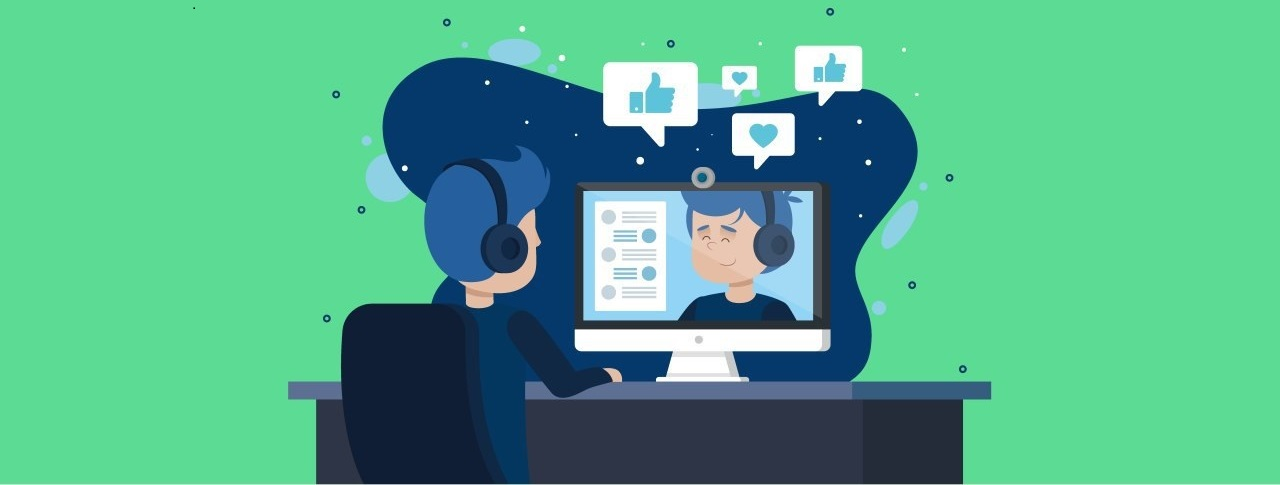
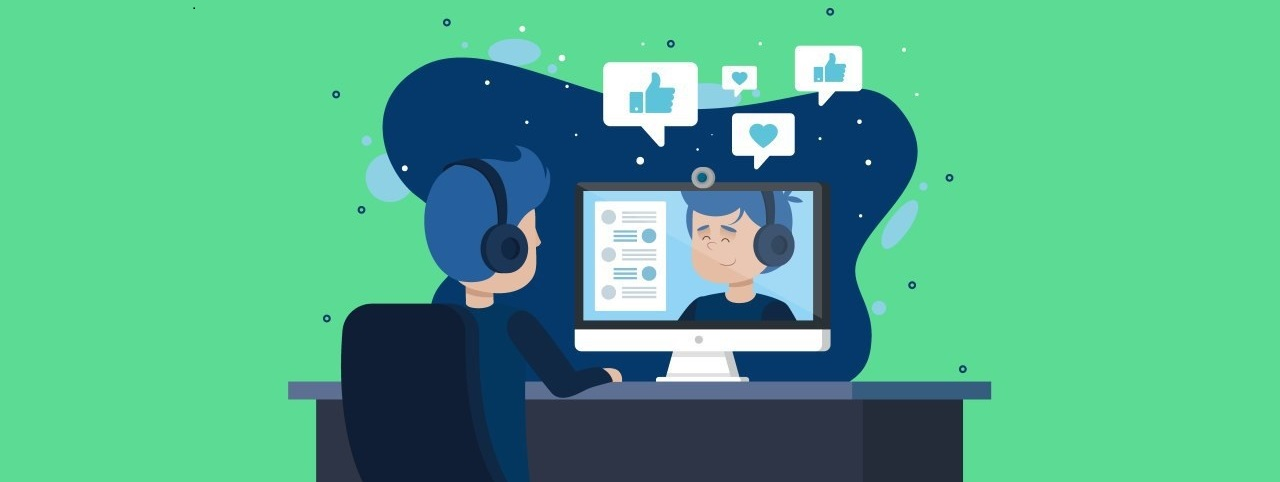
bg change

diff --git a/src/index.css b/src/index.css
@@ -3,9 +3,6 @@
     padding: 0;
     font-family: "montserrat";
 }
-
 body{
-    background-image: url(bg.jpg);
-    background-repeat: no-repeat;
-    background-size: cover;
+    background-color: #5cdb95;
 }
